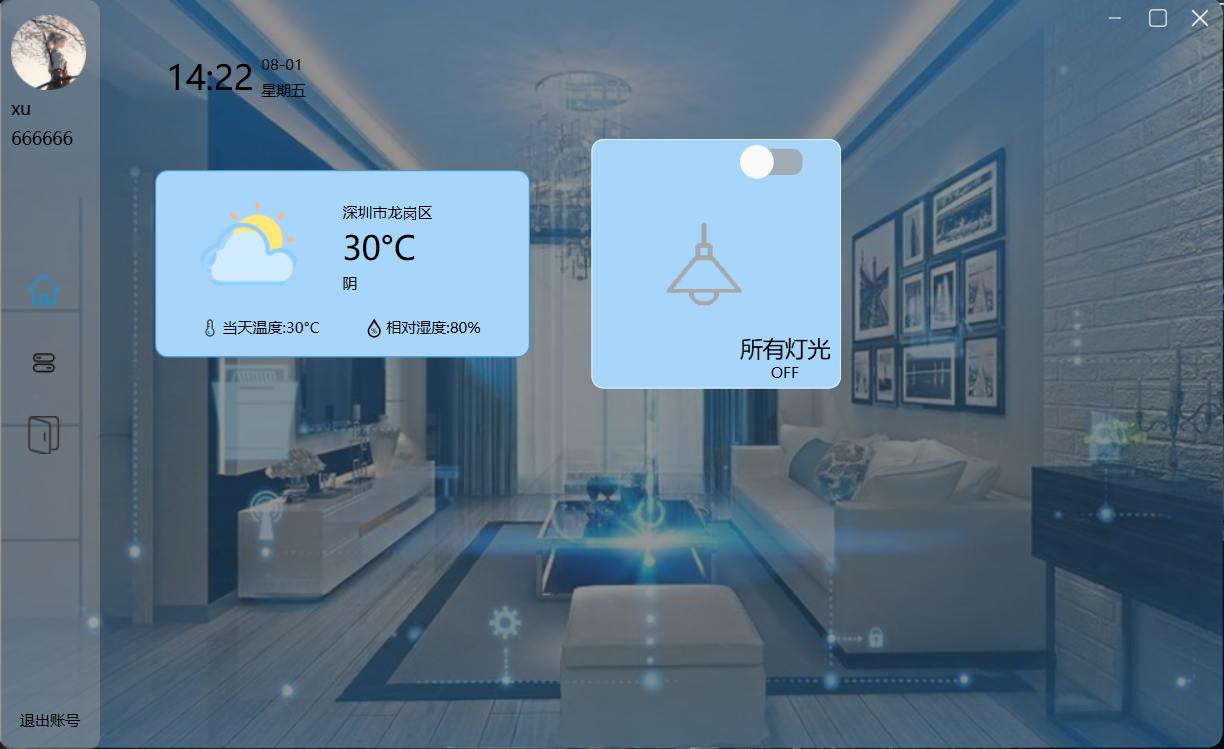
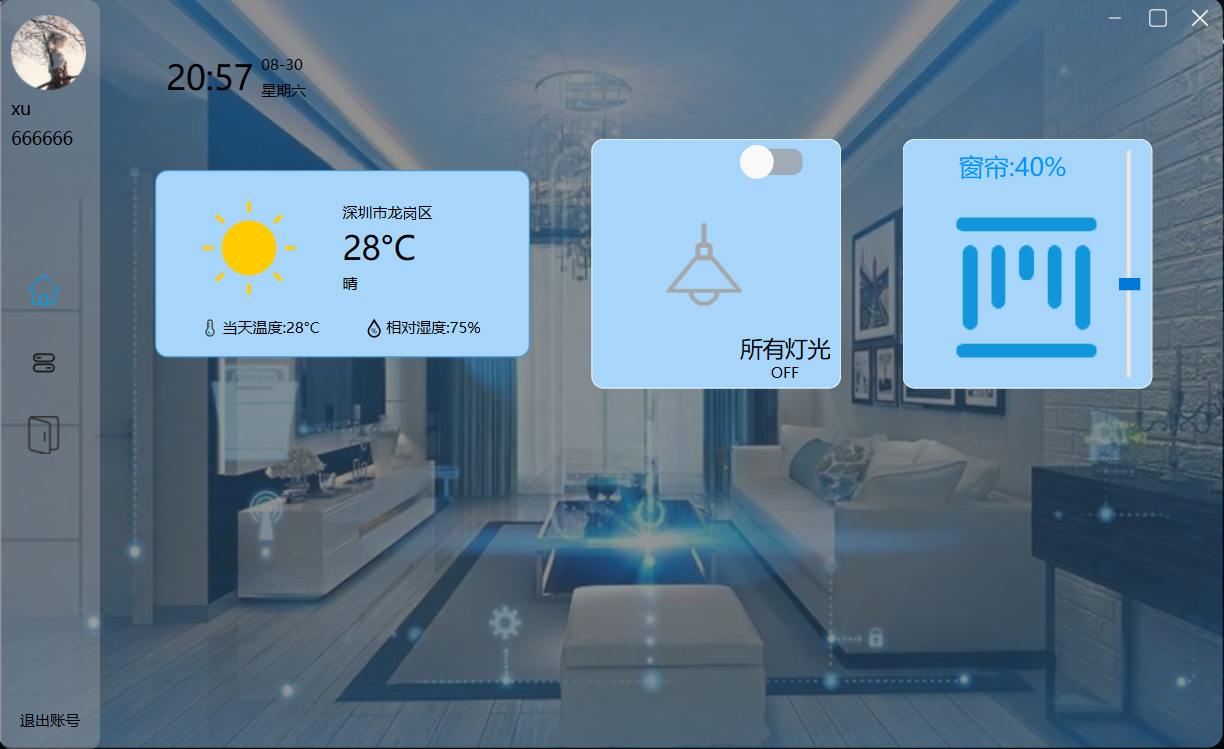
窗帘

diff --git a/SmartHome-Qt/SmartHome-Client/Resource/StyleSheet/HoomPage.css b/SmartHome-Qt/SmartHome-Client/Resource/StyleSheet/HoomPage.css
@@ -1,4 +1,4 @@
 QLabel#current_timLab {
     font-size: 27px;
-    background-color:#0094ff
+    background-color:
 }

diff --git a/SmartHome-Qt/SmartHome-Client/Client-UI/MainWidget/CustomCard/curtainDisplayCard/curtainDisplayCard.cpp b/SmartHome-Qt/SmartHome-Client/Client-UI/MainWidget/CustomCard/curtainDisplayCard/curtainDisplayCard.cpp
@@ -55,4 +55,6 @@ void CurtainDisplayCard::initUi()
 		color:#0094ff;
 	}
 	)");
+
+	ui->percentLab->setText("窗帘:0%");
 }
